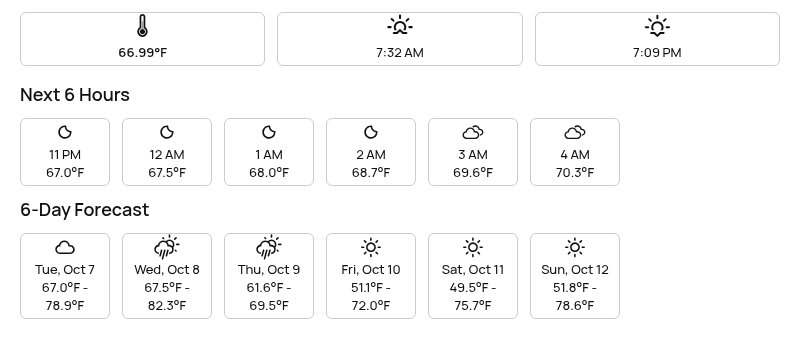
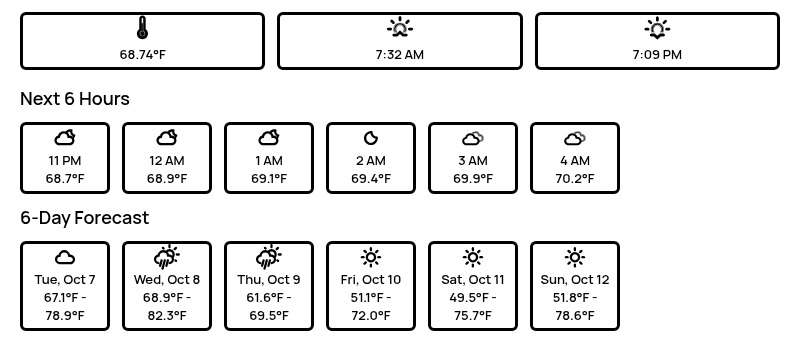
Make the font bold and the card borders thicker

diff --git a/weather/weather.html b/weather/weather.html
@@ -19,10 +19,10 @@
 
     <style>
         :root {
-            --bg: transparent;
-            --text: #111;
-            --card-bg: transparent;
-            --border: #ccc;
+            --bg: #fff;
+            --text: #000;
+            --card-bg: #fff;
+            --border: #000;
             --font: 'Manrope', sans-serif;
             --gap: 12px;
             --card-width: 100px;
@@ -30,6 +30,8 @@
 
         * {
             box-sizing: border-box;
+            font-weight: bold; /* Make all fonts bold */
+            color: var(--text);
         }
 
         body {
@@ -37,7 +39,6 @@
             padding: 12px 20px;
             font-family: var(--font);
             background: var(--bg);
-            color: var(--text);
             display: flex;
             justify-content: center;
             align-items: flex-start;
@@ -53,7 +54,7 @@
         h1,
         h3 {
             margin: 0 0 12px;
-            font-weight: 600;
+            font-weight: bold; /* override to bold */
             font-size: 18px;
         }
 
@@ -68,12 +69,12 @@
             flex: 1 1 var(--card-width);
             min-width: var(--card-width);
             background: var(--card-bg);
-            border: 1px solid var(--border);
+            border: 3px solid var(--border); /* border thickness tripled and black */
             border-radius: 6px;
             padding: 12px;
             text-align: center;
             margin: 0;
-            font-weight: 500;
+            font-weight: bold; /* override to bold */
             transition: background 0.2s ease;
         }
 
@@ -85,6 +86,8 @@
             display: block;
             font-size: 20px;
             margin-bottom: 6px;
+            font-weight: bold;
+            color: var(--text);
         }
 
         .hour-block,
@@ -92,14 +95,15 @@
             width: var(--card-width);
             min-width: var(--card-width);
             background: var(--card-bg);
-            border: 1px solid var(--border);
+            border: 3px solid var(--border); /* border thickness tripled and black */
             border-radius: 6px;
             padding: 10px 10px;
             text-align: center;
             flex-shrink: 0;
             scroll-snap-align: start;
-            font-weight: 500;
+            font-weight: bold; /* override to bold */
             transition: background 0.2s ease;
+            color: var(--text);
         }
 
         .hour-block:hover,
@@ -112,6 +116,8 @@
             font-size: 18px;
             margin-bottom: 4px;
             display: block;
+            font-weight: bold;
+            color: var(--text);
         }
 
         .forecast,
@@ -136,7 +142,7 @@
 
         .hourly-row::-webkit-scrollbar-thumb,
         .forecast-row::-webkit-scrollbar-thumb {
-            background: #bbb;
+            background: #000;
             border-radius: 3px;
         }
 
@@ -153,6 +159,9 @@
             .day-block {
                 font-size: 13px;
                 padding: 4px;
+                font-weight: bold;
+                border-width: 3px; /* maintain triple border thickness */
+                border-color: var(--border);
             }
         }
 
@@ -171,6 +180,9 @@
             .day-block {
                 font-size: 12px;
                 padding: 6px;
+                font-weight: bold;
+                border-width: 3px; /* maintain triple border thickness */
+                border-color: var(--border);
             }
         }
     </style>
@@ -179,7 +191,7 @@
     <div class="weather-wrapper">
         <!-- Current Weather -->
         <div class="current">
-            <p><i class="wi wi-thermometer"></i><strong>66.99°F</strong></p>
+            <p><i class="wi wi-thermometer"></i><strong>68.74°F</strong></p>
             <p><i class="wi wi-sunrise"></i> 7:32 AM</p>
             <p><i class="wi wi-sunset"></i> 7:09 PM</p>
         </div>
@@ -190,39 +202,39 @@
             <div class="hourly-row">
                 
                 <div class="hour-block">
-                    <i class="wi wi-night-clear"></i>
+                    <i class="wi wi-night-alt-cloudy"></i>
                     <div>11 PM</div>
-                    <div>67.0°F</div>
+                    <div>68.7°F</div>
                 </div>
                 
                 <div class="hour-block">
-                    <i class="wi wi-night-clear"></i>
+                    <i class="wi wi-night-alt-cloudy"></i>
                     <div>12 AM</div>
-                    <div>67.5°F</div>
+                    <div>68.9°F</div>
                 </div>
                 
                 <div class="hour-block">
-                    <i class="wi wi-night-clear"></i>
+                    <i class="wi wi-night-alt-cloudy"></i>
                     <div>1 AM</div>
-                    <div>68.0°F</div>
+                    <div>69.1°F</div>
                 </div>
                 
                 <div class="hour-block">
                     <i class="wi wi-night-clear"></i>
                     <div>2 AM</div>
-                    <div>68.7°F</div>
+                    <div>69.4°F</div>
                 </div>
                 
                 <div class="hour-block">
                     <i class="wi wi-cloudy"></i>
                     <div>3 AM</div>
-                    <div>69.6°F</div>
+                    <div>69.9°F</div>
                 </div>
                 
                 <div class="hour-block">
                     <i class="wi wi-cloudy"></i>
                     <div>4 AM</div>
-                    <div>70.3°F</div>
+                    <div>70.2°F</div>
                 </div>
                 
             </div>
@@ -236,13 +248,13 @@
                 <div class="day-block">
                     <i class="wi wi-cloud"></i>
                     <div>Tue, Oct  7</div>
-                    <div>67.0°F - 78.9°F</div>
+                    <div>67.1°F - 78.9°F</div>
                 </div>
                 
                 <div class="day-block">
                     <i class="wi wi-day-rain"></i>
                     <div>Wed, Oct  8</div>
-                    <div>67.5°F - 82.3°F</div>
+                    <div>68.9°F - 82.3°F</div>
                 </div>
                 
                 <div class="day-block">
